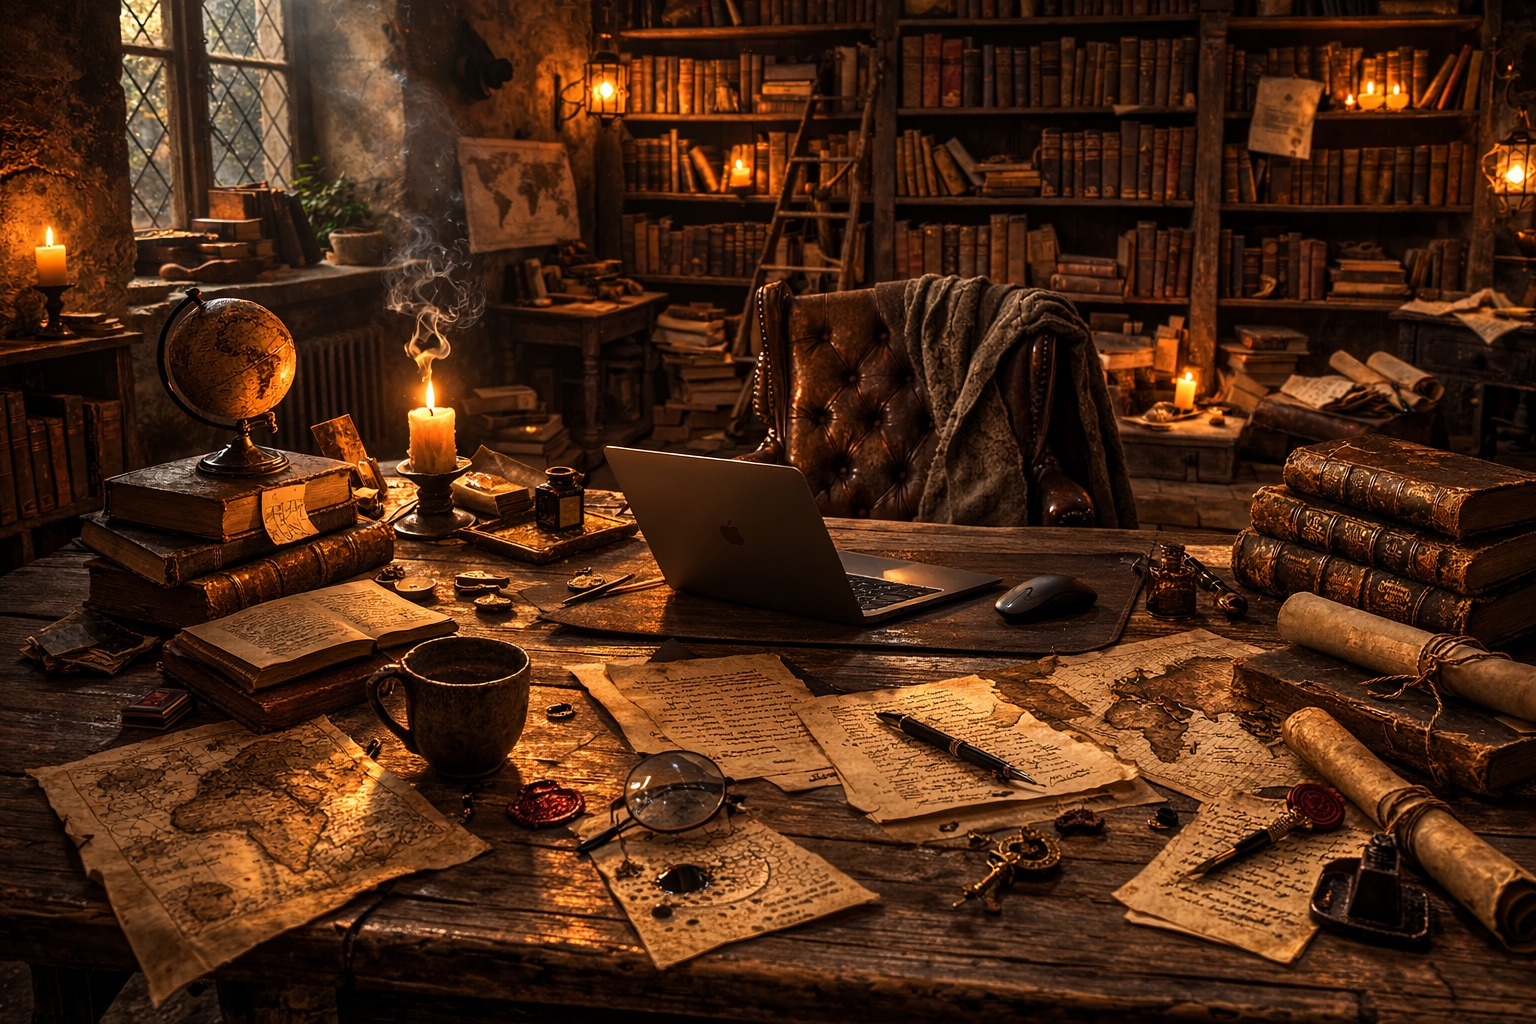
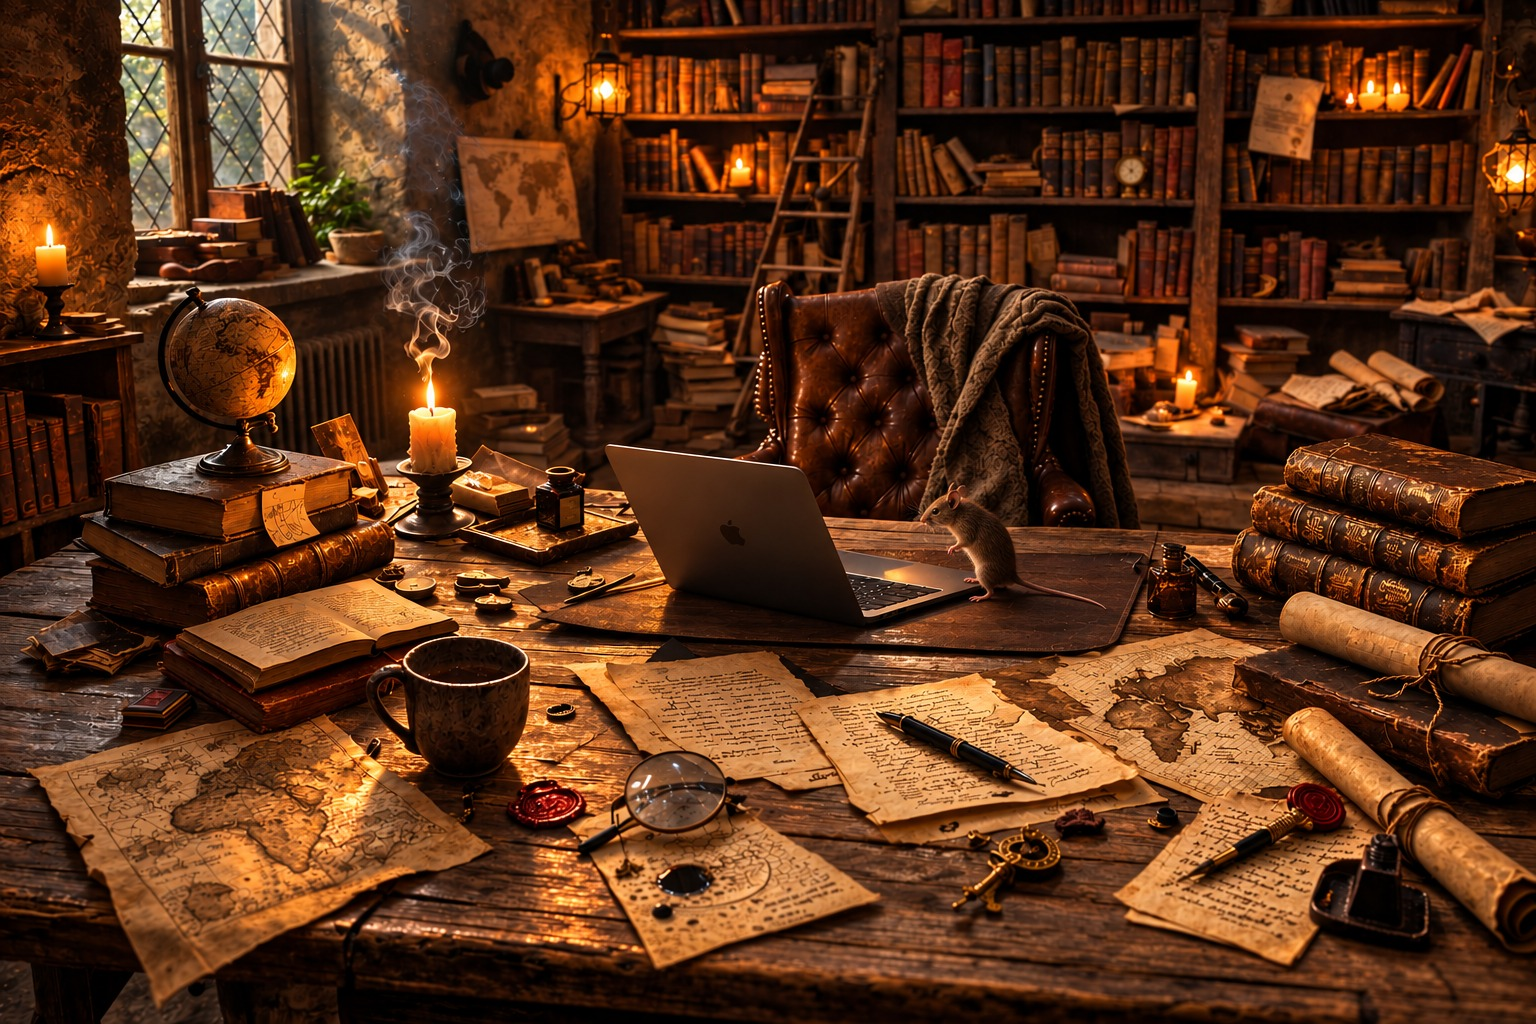
Substituir el fons del capítol 2
Claude-Session: https://claude.ai/code/session_01GKrSvxo6zfT4erwbxr9Umu

diff --git a/index.html b/index.html
@@ -14,7 +14,7 @@
 <link rel="preconnect" href="https://fonts.googleapis.com">
 <link rel="preconnect" href="https://fonts.gstatic.com" crossorigin>
 <link href="https://fonts.googleapis.com/css2?family=Playfair+Display:ital,wght@0,400;0,500;0,600;0,700;1,400;1,500&family=EB+Garamond:ital,wght@0,400;0,500;0,600;1,400;1,500&display=swap" rel="stylesheet">
-<link rel="stylesheet" href="assets/css/estilo.css?v=20261001j">
+<link rel="stylesheet" href="assets/css/estilo.css?v=20261001k">
 <script>document.documentElement.className = 'con-js';</script>
 </head>
 <body>
@@ -324,6 +324,6 @@
 
 </div>
 
-<script src="assets/js/libro.js?v=20261001j"></script>
+<script src="assets/js/libro.js?v=20261001k"></script>
 </body>
 </html>
